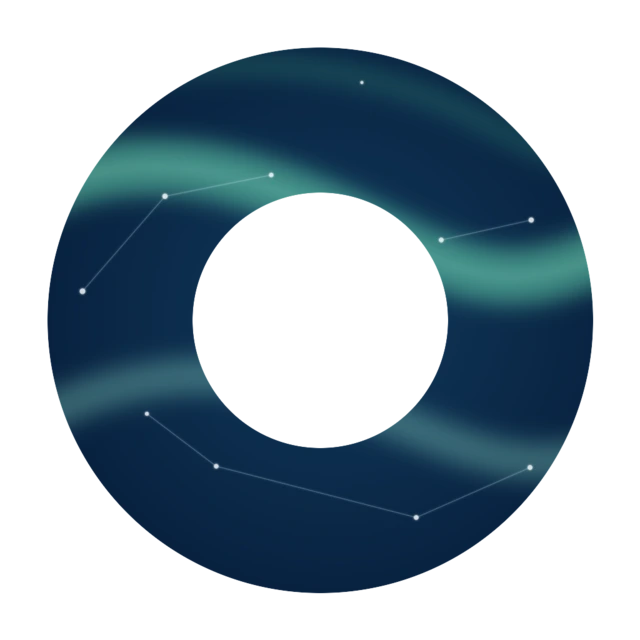
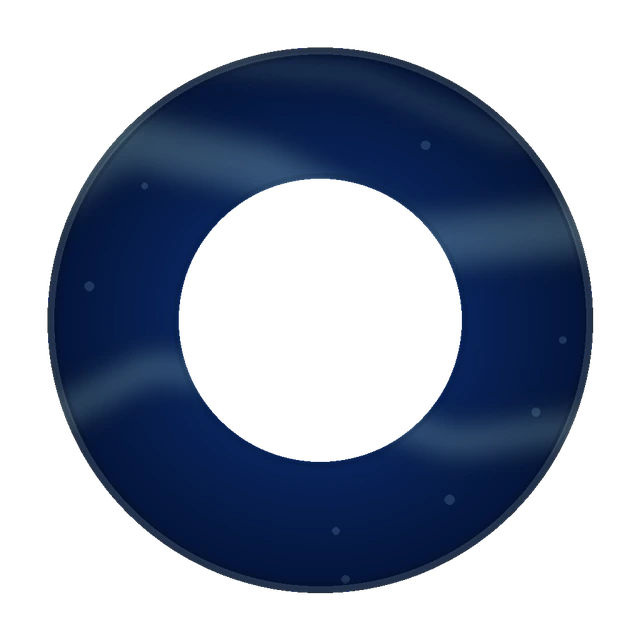
Add files via upload

diff --git a/src/styles.css b/src/styles.css
@@ -5786,3 +5786,25 @@ body.admin-page,.admin-page .app-shell{height:auto;min-height:100%;overflow:visi
 .aurora-ring.active img{filter:saturate(1.05) contrast(1.08) brightness(1.03);}
 .aurora-ring.locked{opacity:.96;}
 .aurora-ring.locked img{filter:saturate(1.00) contrast(1.06) brightness(.98) hue-rotate(2deg);}
+
+/* Pass 7.24.0 — Aurora Apex ring spacing/visibility correction */
+.aurora-ring{
+  opacity:.84;
+  filter:drop-shadow(0 6px 9px rgba(0,2,8,.44));
+}
+.aurora-ring img{
+  opacity:.98;
+  filter:saturate(.88) contrast(1.08) brightness(.88);
+}
+.aurora-ring.tracking{
+  opacity:.72;
+  filter:drop-shadow(0 6px 9px rgba(0,2,8,.42));
+}
+.aurora-ring.tracking img{filter:saturate(.80) contrast(1.08) brightness(.82);}
+.aurora-ring.tracking::before{opacity:.02;}
+.aurora-ring.active{
+  opacity:1;
+  filter:drop-shadow(0 7px 10px rgba(0,2,8,.48)) drop-shadow(0 0 5px rgba(104,227,233,.12));
+}
+.aurora-ring.active img{opacity:1;filter:saturate(.96) contrast(1.10) brightness(.98);}
+.aurora-ring.active::before{opacity:.07;}

diff --git a/index.html b/index.html
@@ -7,7 +7,7 @@
   <meta name="apple-mobile-web-app-capable" content="yes" />
   <meta name="apple-mobile-web-app-status-bar-style" content="black-translucent" />
   <link rel="manifest" href="./manifest.webmanifest" />
-  <link rel="stylesheet" href="./src/styles.css?v=7.23.0" />
+  <link rel="stylesheet" href="./src/styles.css?v=7.24.0" />
   <title>Silverstone Mission Control</title>
 </head>
 <body>
@@ -40,6 +40,6 @@
       }
     })();
   </script>
-  <script src="./src/main.js?v=7.23.0" defer></script>
+  <script src="./src/main.js?v=7.24.0" defer></script>
 </body>
 </html>

diff --git a/PRODUCTION-AUDIT.md b/PRODUCTION-AUDIT.md
@@ -1,4 +1,4 @@
-# Pass 7.23.0 — Production Audit
+# Pass 7.24.0 — Production Audit
 
 ## Result
 
@@ -6,10 +6,10 @@
 
 ## Production footprint
 
-- `dist/`: **7.951 MiB**
+- `dist/`: **7.979 MiB**
 - Production files: **50**
-- Versus Pass 7.22.0: **-45,203 bytes** (**-44.1 KiB**) with **no file-count change**.
-- The footprint reduction comes from tighter Aurora ring artwork assets despite increasing the visible band thickness.
+- Versus Pass 7.23.0: **+35,162 bytes** (**+34.3 KiB**) with **no file-count change**.
+- The footprint increase comes from the replacement Aurora ring WebPs and the small Aurora Apex style adjustment; no duplicate assets were added.
 - No WAV/source-master audio is deployed.
 - No test/temp files are deployed.
 - Runtime images remain WebP/SVG and fonts remain WOFF2.
@@ -17,9 +17,9 @@
 ## Aurora Apex verified
 
 - Current Aurora Apex gameplay, capture timing, Outer/Middle tap capture, Inner hold-to-brake control, mistimed overspin/RGB fault, darker chamber background and overall layout remain unchanged.
-- Rebuilt `aurora-ring-outer.webp`, `aurora-ring-middle.webp` and `aurora-ring-inner.webp` again so the designed Aurora artwork occupies more of each ring and the dark gaps no longer dominate.
-- Band thickness now increases progressively so Middle and Inner retain visual presence inside their smaller concentric containers.
-- All three rings remain clearly visible from the opening frame; the active ring is only modestly brighter rather than suppressing the others.
+- Rebuilt `aurora-ring-outer.webp`, `aurora-ring-middle.webp` and `aurora-ring-inner.webp` so the rings read larger and fuller while preserving visible dark spacing between the three concentric bands.
+- Restored crisp ring-edge definition and removed the obvious connected-line constellation treatment; the artwork now uses only sparse star specks.
+- Lifted startup/tracking suppression so Outer, Middle and Inner are all clearly visible from the opening frame; the active ring remains only modestly brighter.
 - No HUD structure, copy, audio, routing or other mission behaviour was changed.
 
 ## Automated checks passed
@@ -41,7 +41,7 @@
 
 ## Non-blocking warnings
 
-1. **Deployment footprint:** 7.95 MB exceeds the 7 MB audit target, primarily because the full Lapland Launch music track remains intentionally retained.
+1. **Deployment footprint:** 7.98 MB exceeds the 7 MB audit target, primarily because the full Lapland Launch music track remains intentionally retained.
 2. **ELF FM stream:** current Radio Mast URL is still identified as a test stream and should be replaced when the production stream is supplied.
 3. **Web app manifest:** no install icon is defined; normal browser/QR use is unaffected.
 

diff --git a/CHANGELOG.md b/CHANGELOG.md
@@ -674,3 +674,12 @@ This pass adds a self-contained static build for Vercel. No Vercel project-setti
 - Left all three rings clearly visible from the opening frame; the active ring remains highlighted only modestly rather than suppressing the others.
 - No copy, HUD structure, audio or layout changes were made.
 - Bumped runtime asset version to 7.23.0.
+
+## Pass 7.24.0 — Aurora Apex larger rings with restored spacing
+
+- Kept the current Aurora Apex gameplay, layout, darker chamber background and mistimed overspin/RGB fault unchanged.
+- Rebuilt the three Aurora ring image assets again so the rings read larger and fuller, while preserving visible negative-space gaps between Outer, Middle and Inner.
+- Restored crisp ring edges and removed the obvious connected-line constellation treatment; the artwork now uses only sparse star specks.
+- Lifted the startup/tracking suppression so all three rings remain clearly visible from the beginning, with only a modest active-ring emphasis.
+- No copy, HUD structure, audio or route behaviour was changed.
+- Bumped runtime asset version to 7.24.0.
